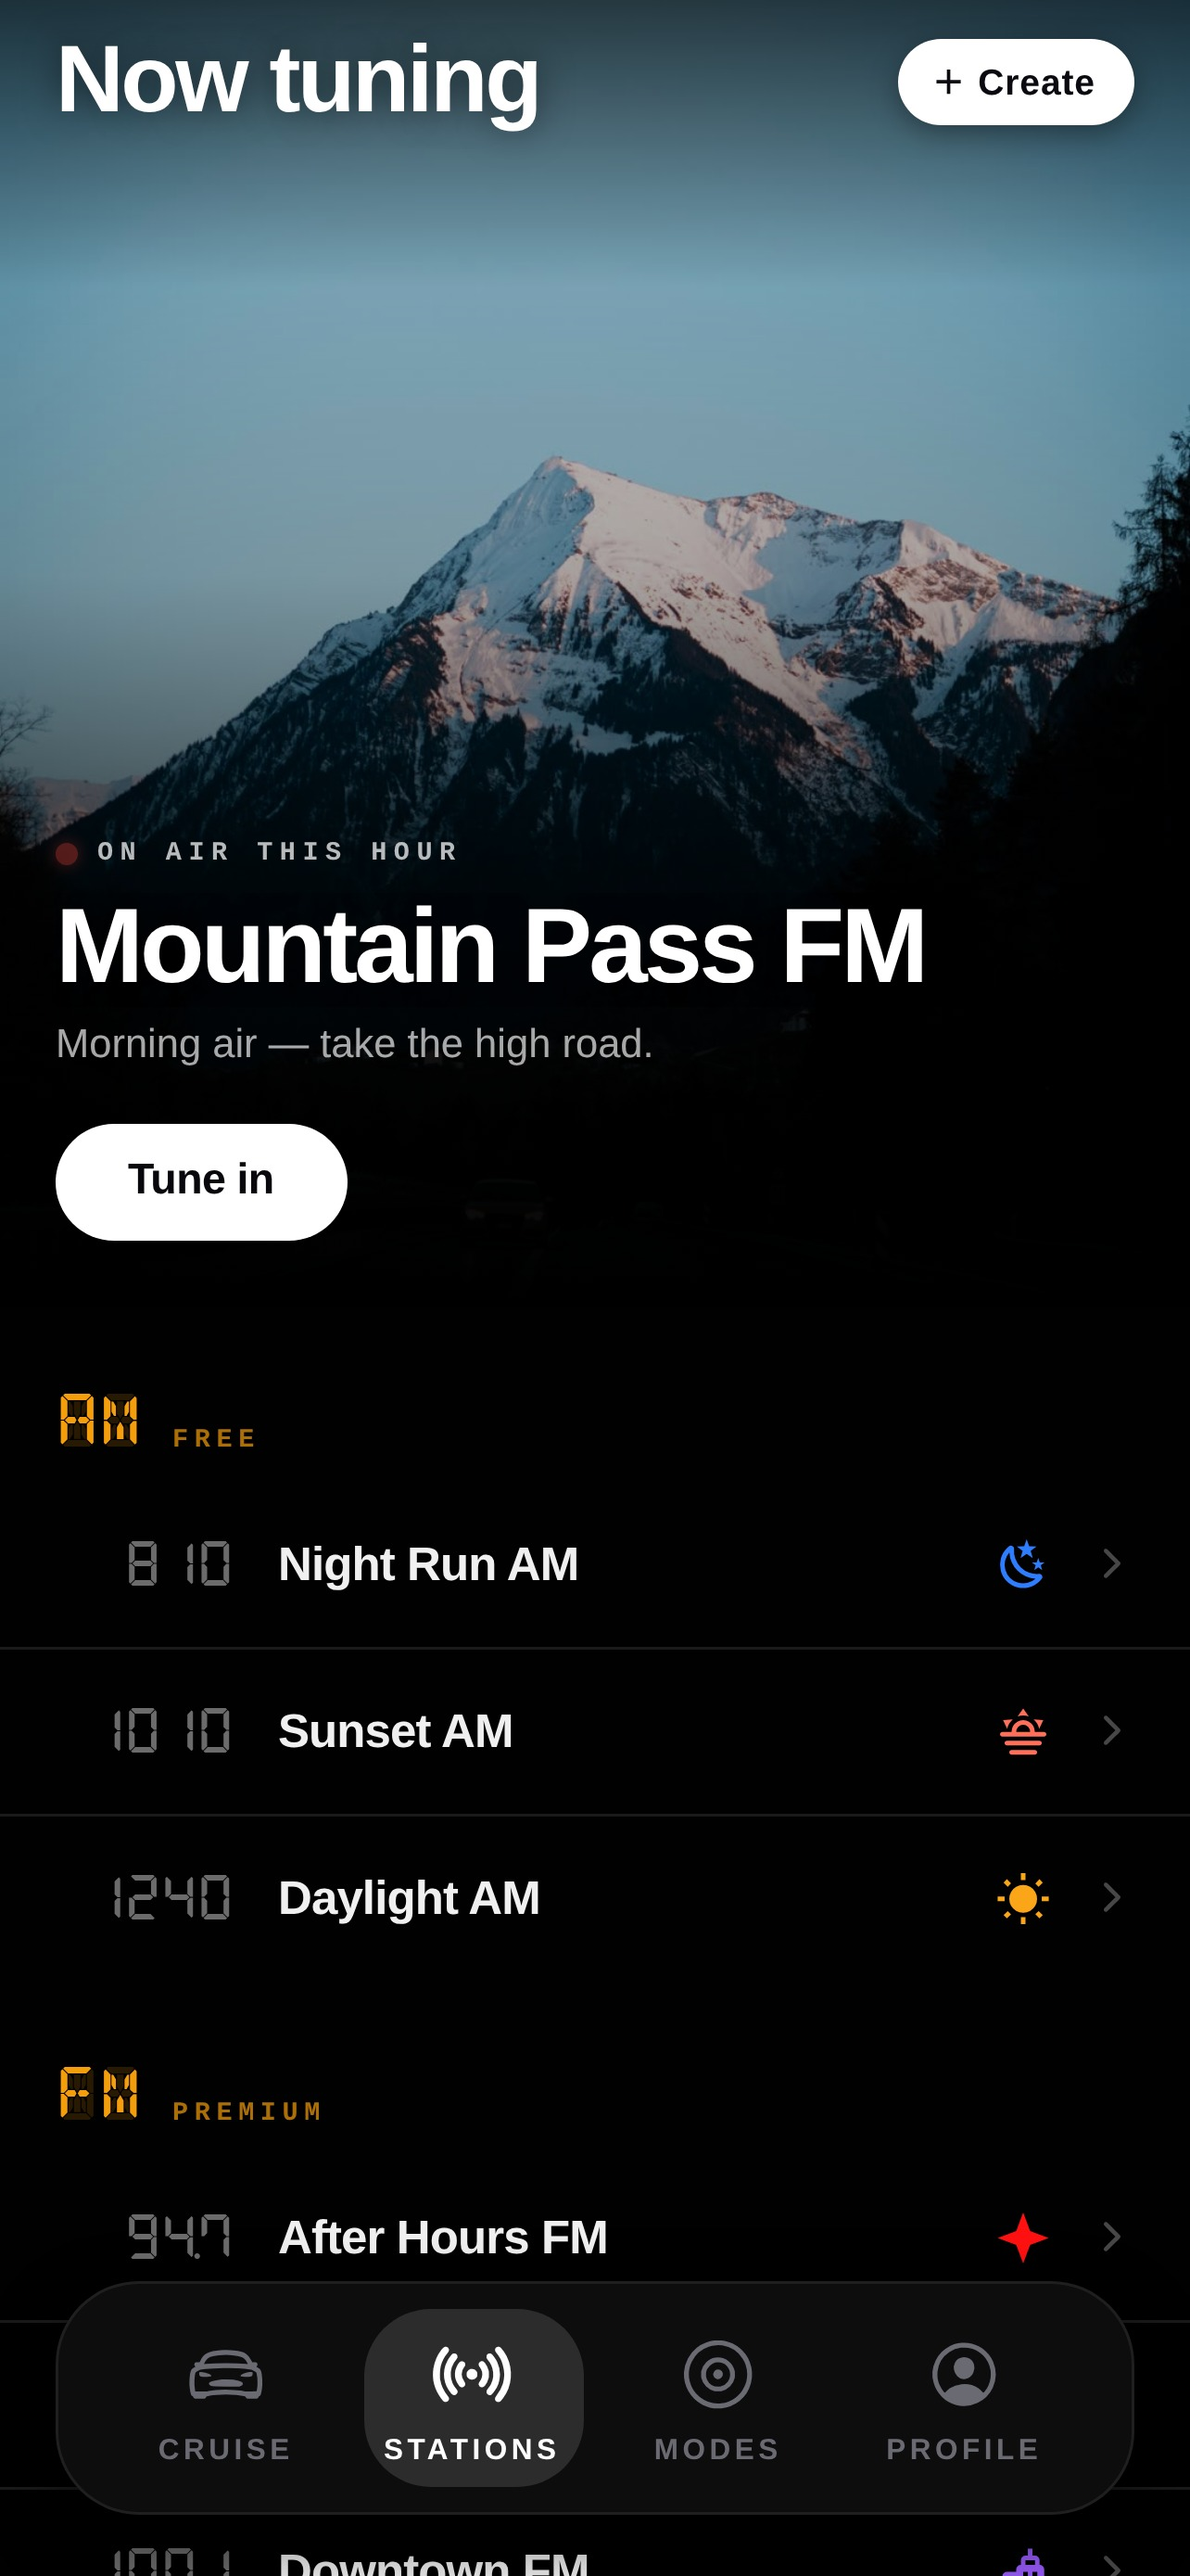
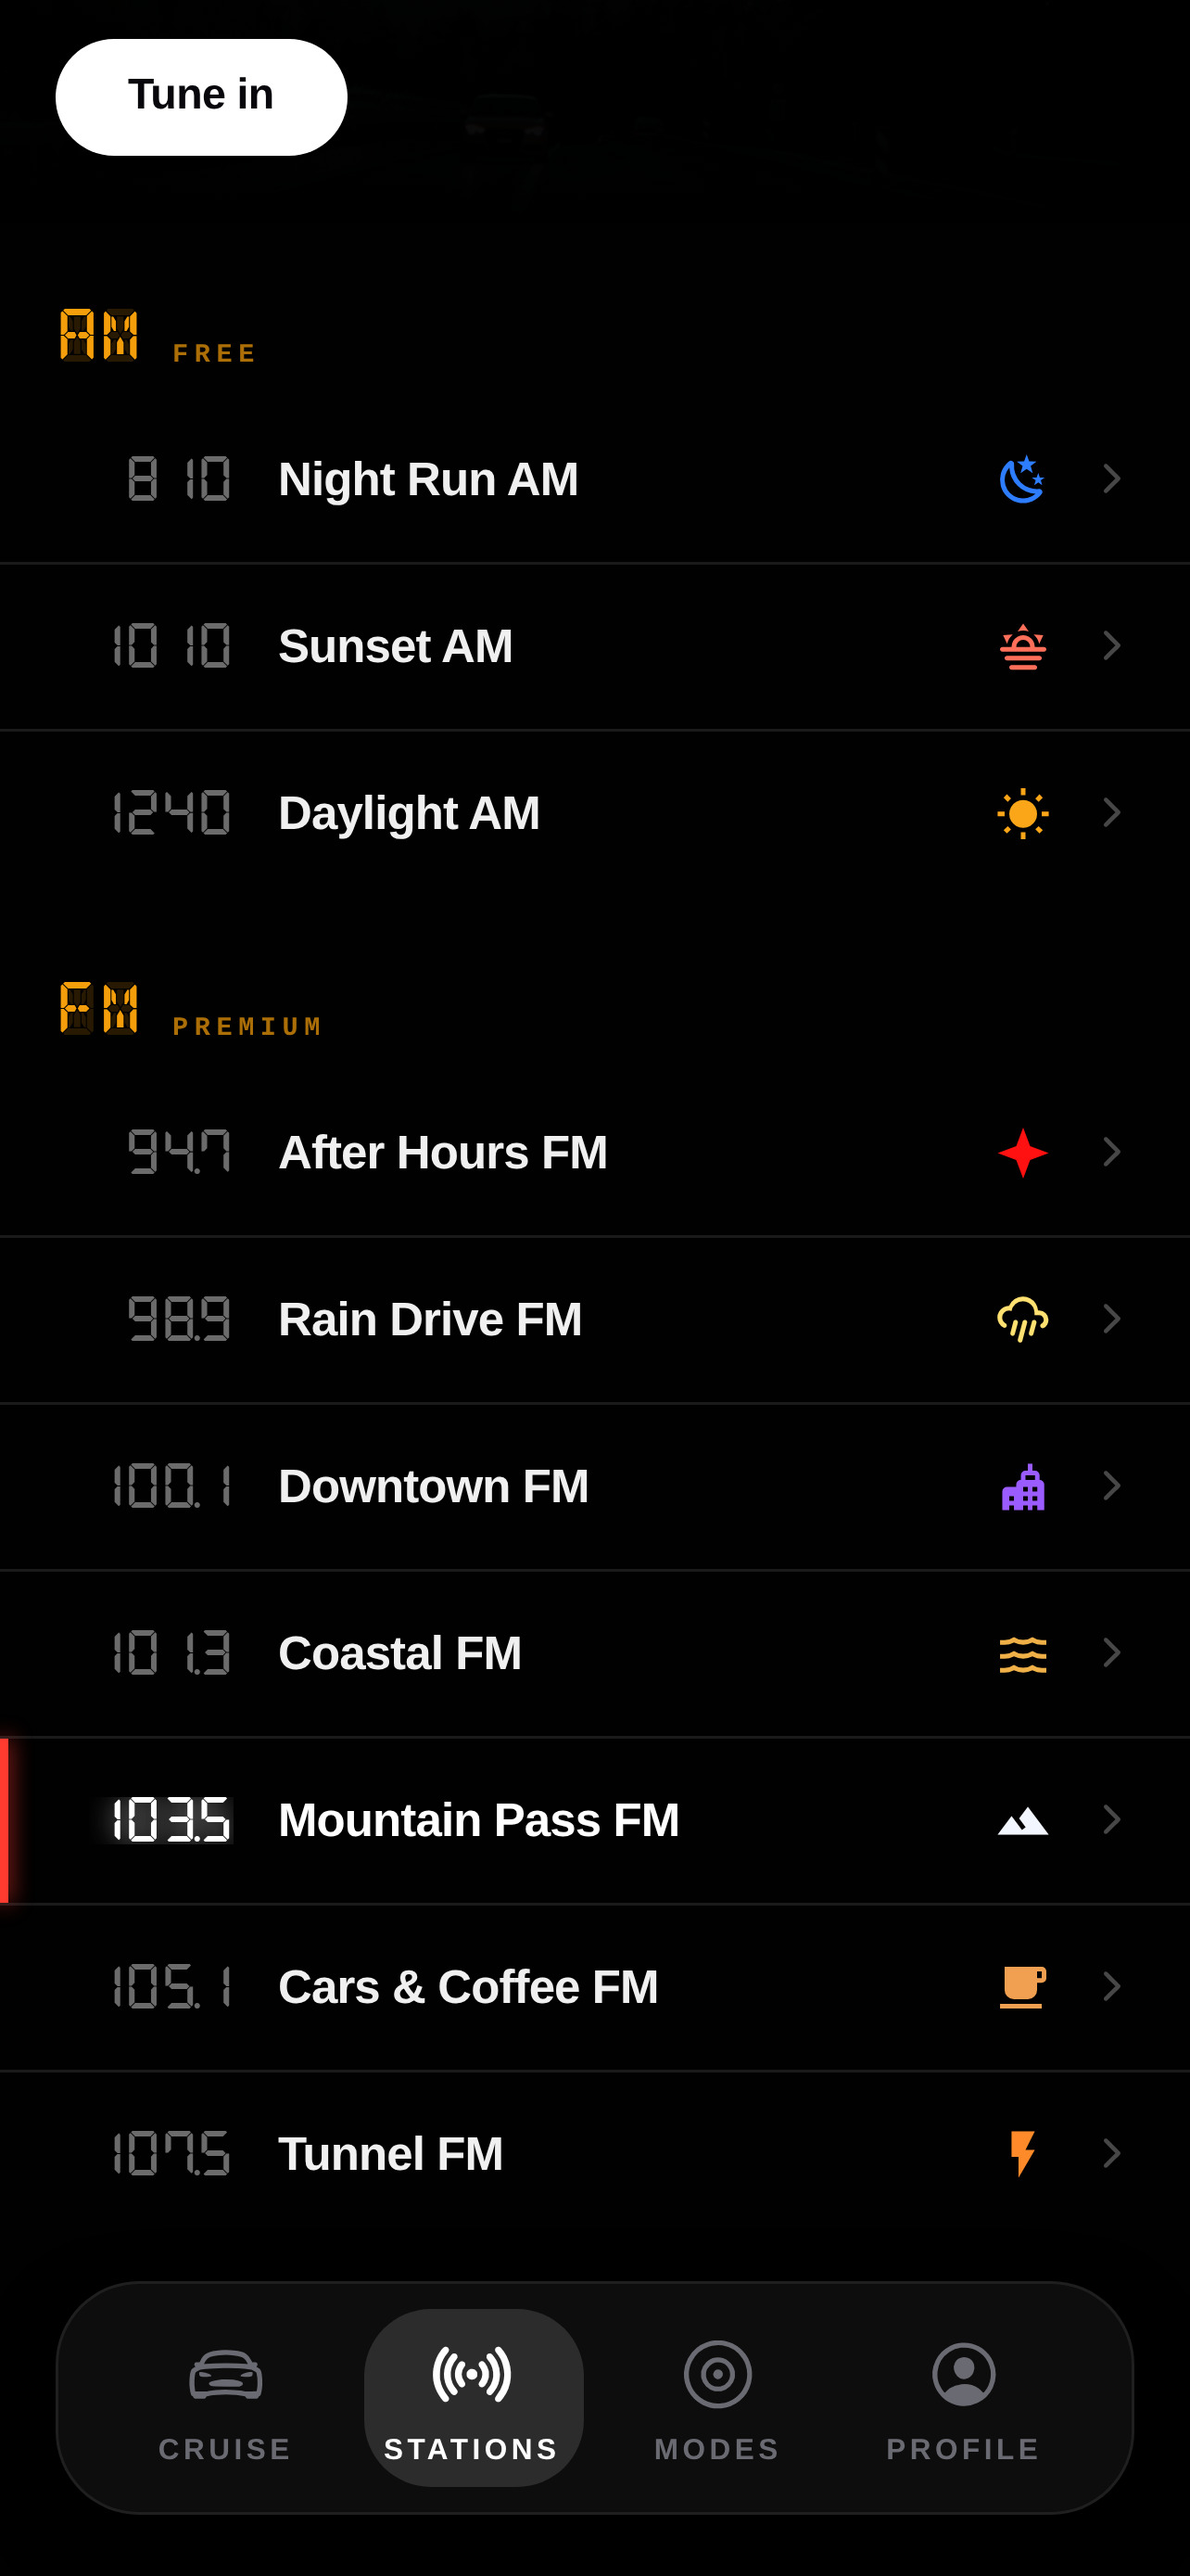
Marketing App Store slides: captioned, built in-repo, no design tool
The listing used raw screenshots. It now uses captioned slides generated
from those same screenshots at Apple's 6.5" size.

- scripts/marketing/build-slides.mjs — three layouts (full-bleed hero,
  floating phone, standalone share card), HTML + Chromium, self-contained.
- scripts/marketing/tints.py — samples each screenshot's own lit colour so
  the surround belongs to its picture, normalised so the ten read as a set.
- scripts/marketing/stations-shot.mjs — re-shoots the Stations page at max
  scroll; the shipped one was sliced mid-row against the screen's bottom
  edge, and at max scroll all ten stations show, which is what that slide's
  headline claims.
- screenshots-appstore/03-stations-dial.jpg replaced with that reshoot.
- screenshots-marketing/ — the ten finished slides.

Not uploaded yet; these go up with the 1.2.0 listing update.

Claude-Session: https://claude.ai/code/session_01QfXMCYhSHowDeZKzYgKa2H

diff --git a/scripts/marketing/tints.py b/scripts/marketing/tints.py
@@ -1,0 +1,31 @@
+"""Sample each screenshot's own lit colour, so the slide's surround belongs to
+the picture instead of being one brand slab repeated ten times."""
+from PIL import Image
+import colorsys, glob, os, json
+
+SHOTS = 'screenshots-appstore'
+out = {}
+for p in sorted(glob.glob(f'{SHOTS}/*.jpg')):
+    im = Image.open(p).convert('RGB').resize((160, 346))
+    wr = wg = wb = wt = 0.0
+    for r, g, b in im.getdata():
+        h, l, s = colorsys.rgb_to_hls(r / 255, g / 255, b / 255)
+        # Weight toward pixels that are both lit and coloured: the mood lives
+        # in the glow, not in the near-black backdrop or the white type.
+        w = s * (l ** 0.8) * (1 - max(0, l - 0.72) * 3)
+        if w <= 0:
+            continue
+        wr += r * w; wg += g * w; wb += b * w; wt += w
+    if wt == 0:
+        out[os.path.basename(p)[:-4]] = '#3a3a48'
+        continue
+    r, g, b = wr / wt, wg / wt, wb / wt
+    h, l, s = colorsys.rgb_to_hls(r / 255, g / 255, b / 255)
+    # Land every tint in the same lightness/saturation band or the ten slides
+    # read as ten different products.
+    l = 0.30
+    s = min(0.55, max(0.30, s))
+    r, g, b = colorsys.hls_to_rgb(h, l, s)
+    out[os.path.basename(p)[:-4]] = '#%02x%02x%02x' % (round(r * 255), round(g * 255), round(b * 255))
+
+print(json.dumps(out, indent=2))

diff --git a/AGENTS.md b/AGENTS.md
@@ -308,3 +308,4 @@ The owner does not code — describe changes in plain English, Claude implements
 - NEXT (post-launch): realism detail pass on other modes — owner loved the vinyl hardware round (album-art label, silver J tonearm w/ counterweight/dial/cartridge, groove-riding needle, 2026-07-23) and wants the same treatment elsewhere. Cassette is DONE (24.07). Remaining tail by the new bar: HORIZON and CIRCULAR EQ have never had a detail pass — bring them up to Vinyl/Disco standard or retire them the way Sound Waves is being retired. Reference-image-driven, SVG-drawn, all OTA-able.
 - NEXT (post-launch): Apple Music support via MusicKit (platform concept already in code); Google ID verification clears → upload build, £1.99 product in Play Console, swap test_ key for goog_ key → closed test (12 testers/14 days); iOS home-screen widgets (owner asked 2026-07-23) — order: Start Drive widget (station-art tile deep-linking into last station/mode) → drive-stats/streak tile → "Tonight's pick" card → Live Activity during drives (lock screen/Dynamic Island, genuinely live). All native (Swift via config plugin, e.g. @bacons/apple-targets), EAS cloud-buildable without a Mac, fresh build per iteration (no OTA). NOTE: live Spotify now-playing in a widget is NOT feasible (no Apple Music-style access + ~15min refresh) — don't promise it
 - DONE 2026-07-26 (ship from the phone): `.github/workflows/ota-update.yml` — a MANUAL GitHub Actions button (`workflow_dispatch` only, never on push, so the owner still decides what ships during launch) that runs `eas update` for a chosen channel. Owner presses it from the GitHub mobile app / browser, no PC needed. REQUIRES a repo secret `EXPO_TOKEN` (expo.dev → Account settings → Access tokens → robot/personal token). Before publishing it asserts EXPO_PUBLIC_SPOTIFY_CLIENT_ID/SECRET exist in that EAS environment — `.env` is gitignored so CI has no local copy, and a bundle published without them would silently break Spotify sign-in for everyone on the channel. Workflow files are NOT a fingerprint source, so adding this did not disturb OTA. STILL PENDING (post-launch): making it fire automatically on every push.
+- APP STORE SCREENSHOTS ARE NOW MARKETING SLIDES 2026-08-08 (owner, after seeing TinySong/Hayu listings: "how we get the App Store photos like these for free"): the listing used raw screenshots; it now uses captioned slides built here, no tool and no subscription. `scripts/marketing/build-slides.mjs` reads `screenshots-appstore/*.jpg` and writes `screenshots-marketing/*.png` at Apple's 6.5" size (1284x2778) via HTML + Chromium. THREE LAYOUTS, and the split is the owner's pick after comparing four directions side by side: slide 1 is **B** — the screenshot full-bleed with the headline over it, because the first slide has to stop a thumb and that is the biggest picture available; slides 2-9 are **A** — the phone floating on a glow, which gives the set a calmer rhythm; slide 10 is **CARD** — the share card alone, no phone. TRAP in B: the scrim must be FULLY OPAQUE down past the headline's foot (0% to 15.5%), or the app's own header ghosts through it — the first render had "Downtown FM" sitting inside the H1. TINTS ARE SAMPLED, NEVER PICKED: `scripts/marketing/tints.py` weights each screenshot's pixels by `saturation x luminance` and lands every result at one fixed lightness/saturation, so the surround belongs to its own picture but the ten slides still read as one set. Re-run it after ANY screenshot change — the stations reshoot below flipped that slide from teal to amber, which is correct because the new picture is the dial rather than the mountain. TWO THINGS THE RENDER CAUGHT: the raw share screenshot is the share SHEET (six buttons and a Cancel) and reads as a menu, so slide 10 crops the card out of it by measured pixel box (`CARD_BOX`, found by thresholding the bright block — the crop is done in CSS so the script needs no image library); and the stations screenshot was scrolled to the top, which sliced the last row against the screen's bottom edge — `scripts/marketing/stations-shot.mjs` re-shoots it at MAX scroll, which shows all ten stations, both bands and the red tuned marker, so the "Ten moods. Not ten genres." headline is proved by its own picture. `screenshots-appstore/03-stations-dial.jpg` was replaced with that reshoot. TYPEFACE IS A STAND-IN: this machine only has Liberation Sans (the free Helvetica clone). Drop a real font in and point the stack at it. NOT YET UPLOADED — these ship with version 1.2.0's listing update.
